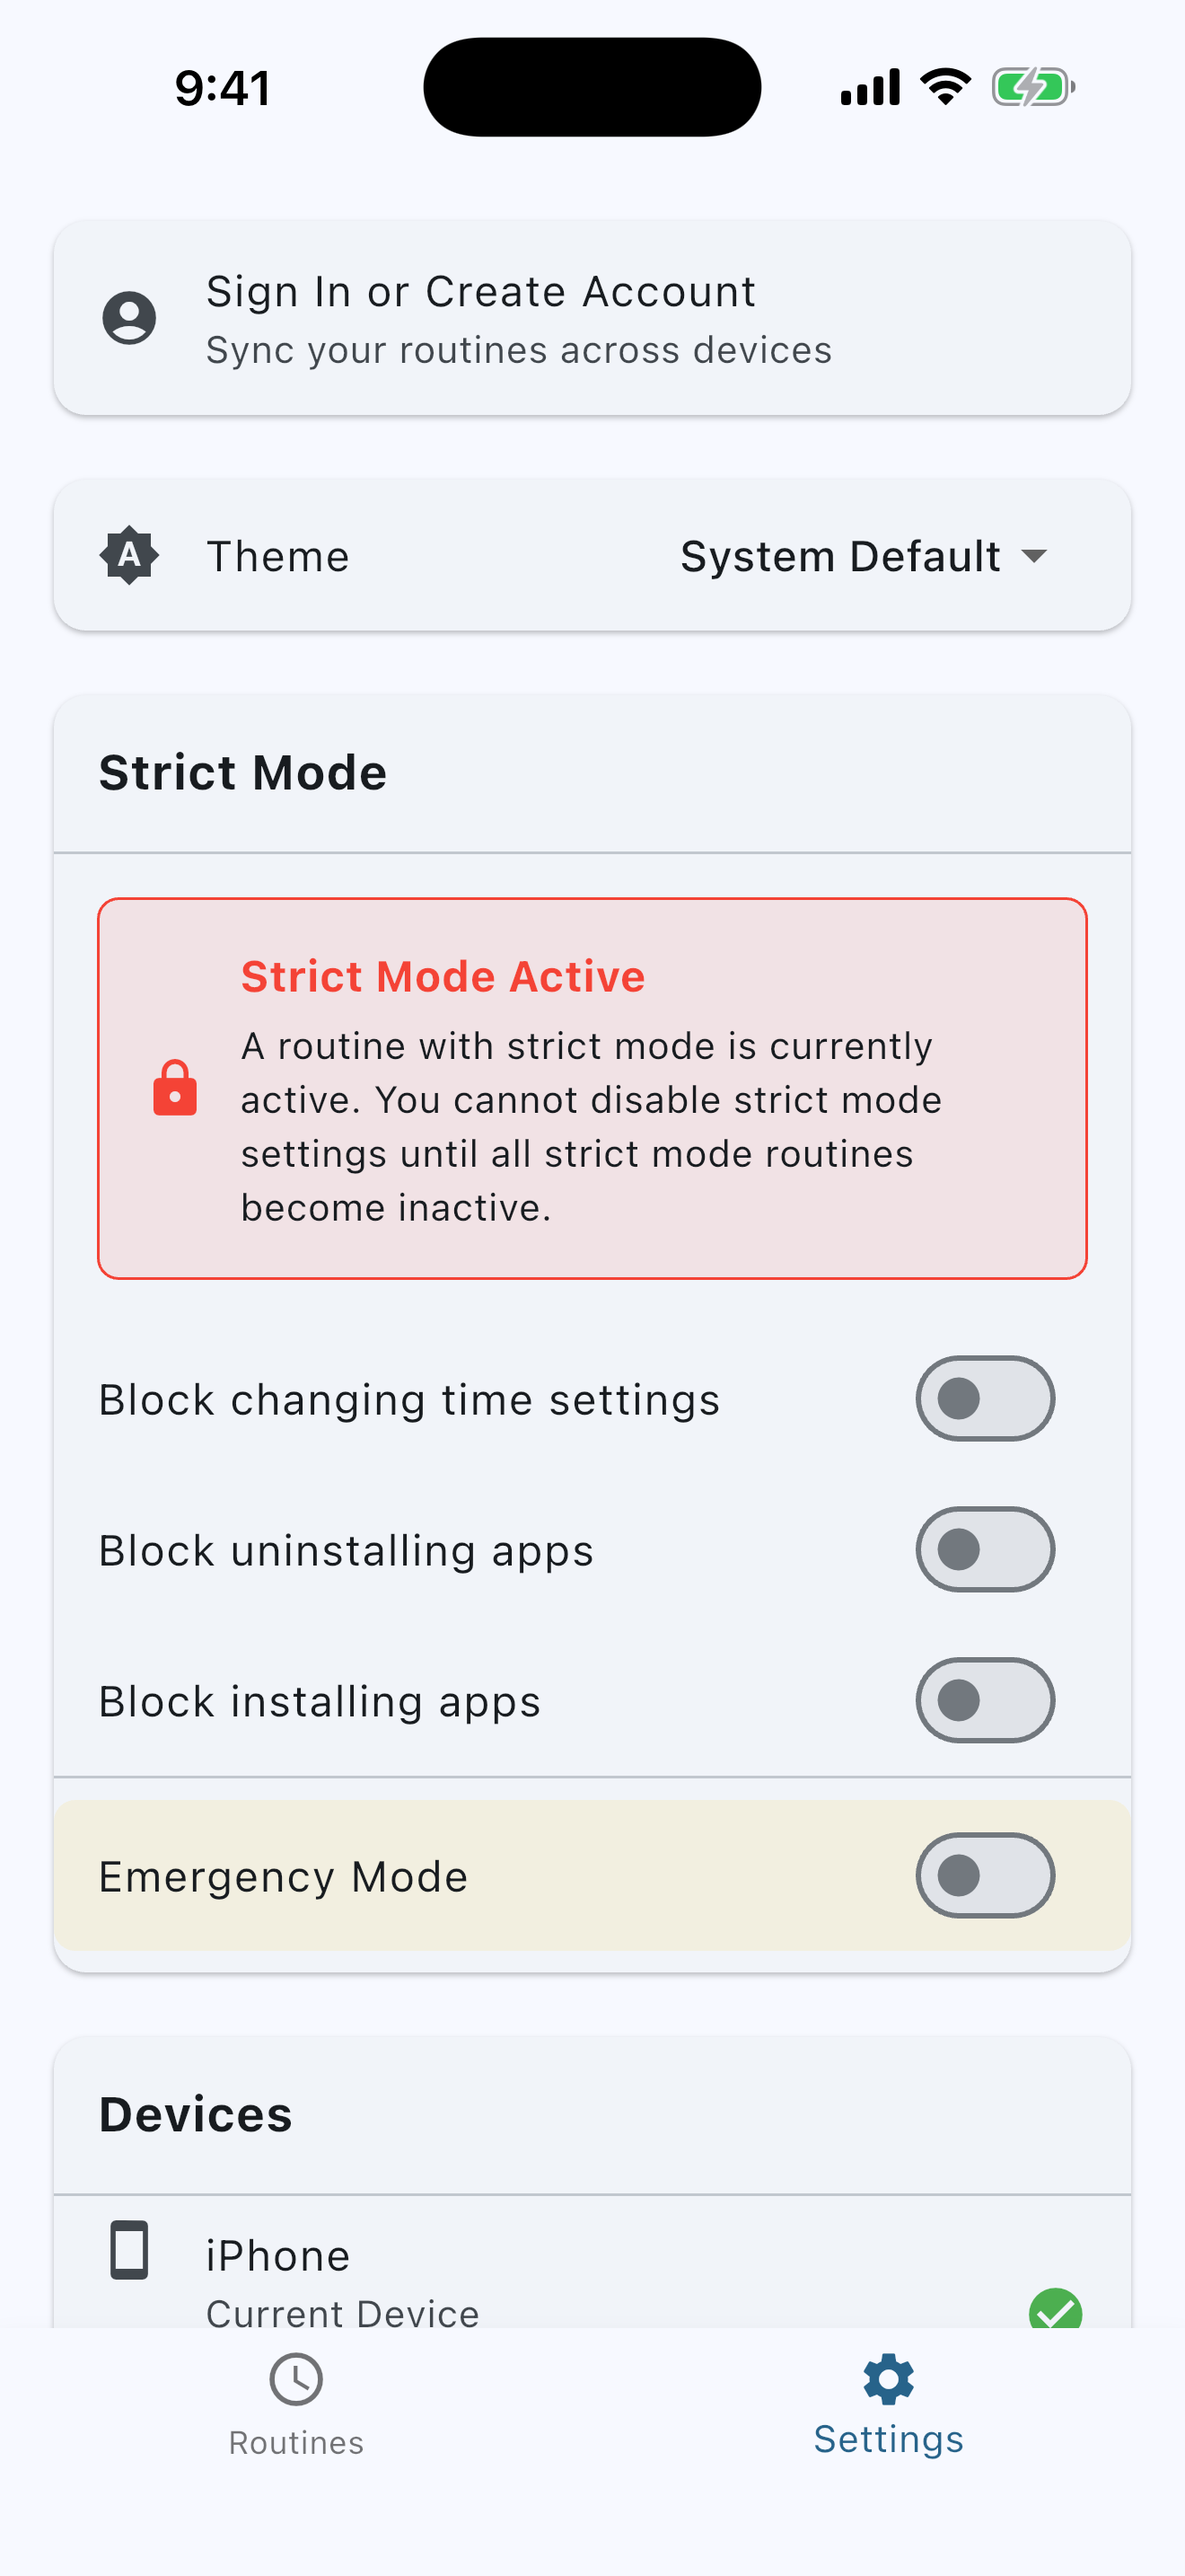
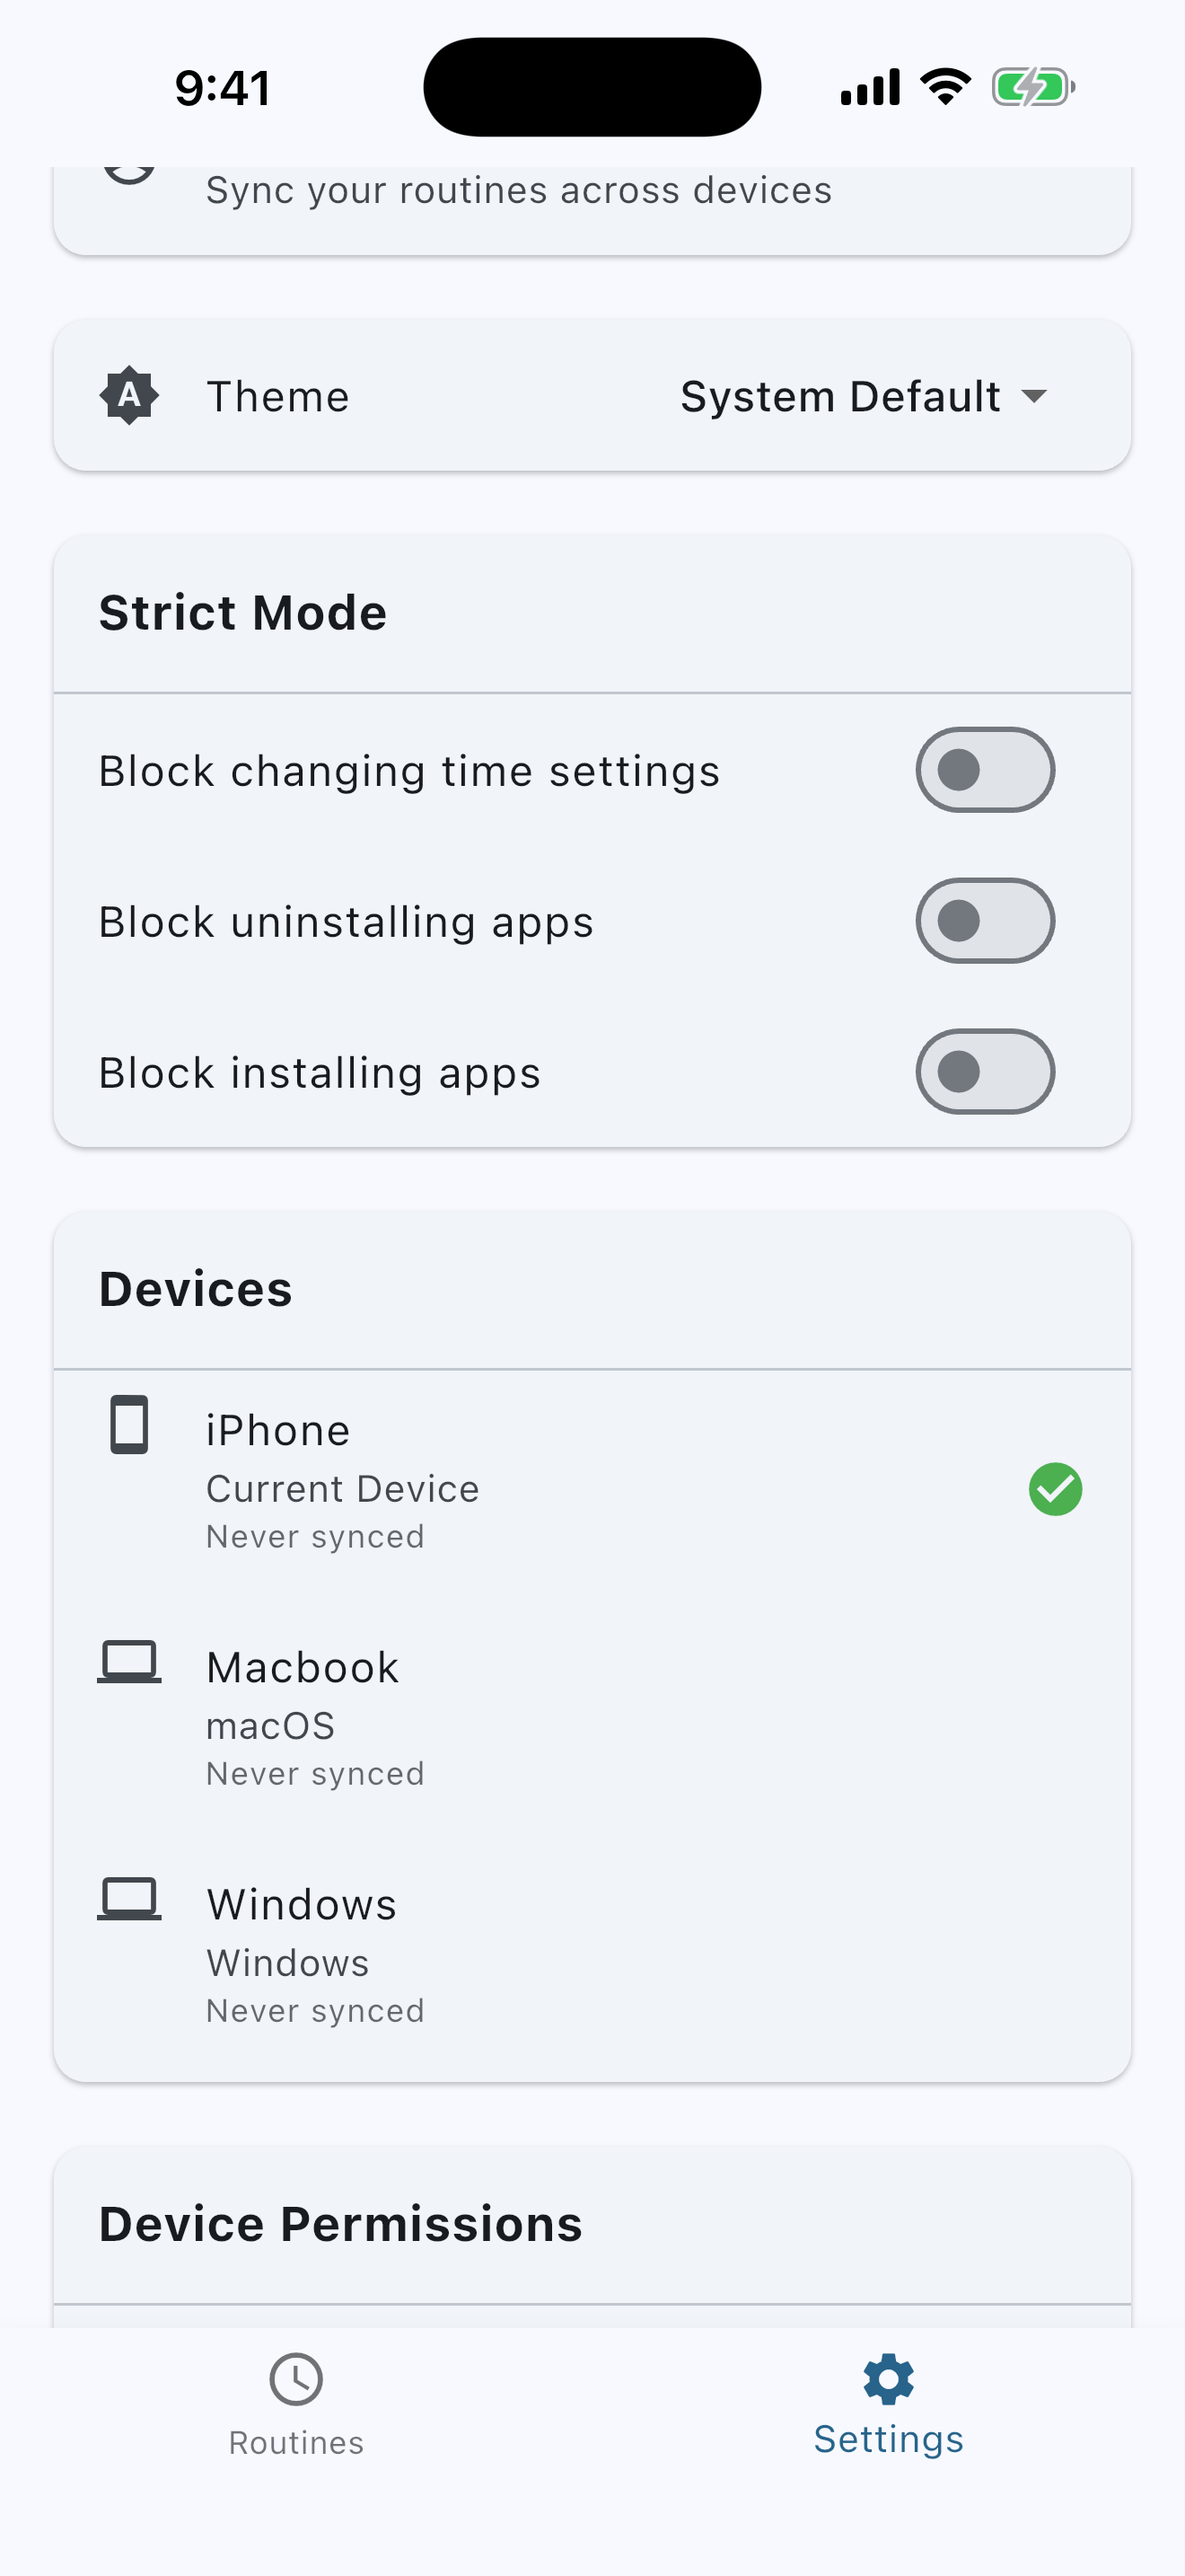
replace ios settings

diff --git a/supabase/functions/invite/index.ts b/supabase/functions/invite/index.ts
@@ -16,6 +16,29 @@ interface RegisterRequest {
 
 type RequestBody = VerifyRequest | RegisterRequest
 
+// listUsers() is paginated (50 per page by default), so a single call silently
+// stops finding matches once there are more users than fit on one page.
+async function userExistsByEmail(
+  // deno-lint-ignore no-explicit-any
+  supabase: any,
+  email: string,
+): Promise<boolean> {
+  const target = email.toLowerCase()
+  const perPage = 1000
+
+  for (let page = 1; ; page++) {
+    const { data, error } = await supabase.auth.admin.listUsers({ page, perPage })
+    if (error) throw error
+
+    const users = data?.users ?? []
+    if (users.some((user: { email?: string }) => user.email?.toLowerCase() === target)) {
+      return true
+    }
+    // A short page means we've reached the end of the list.
+    if (users.length < perPage) return false
+  }
+}
+
 Deno.serve(async (req) => {
   try {
     if (req.method !== 'POST') {
@@ -40,40 +63,43 @@ Deno.serve(async (req) => {
         return new Response('Missing token', { status: 400 })
       }
 
+      let payload: Record<string, unknown>
       try {
-        const { payload } = await jwtVerify(body.token, secret)
-        
-        // Check if an account already exists for this email
-        const supabaseUrl = Deno.env.get('SUPABASE_URL')!
-        const supabaseServiceKey = Deno.env.get('SUPABASE_SERVICE_ROLE_KEY')!
-        
-        const supabase = createClient(supabaseUrl, supabaseServiceKey, {
-          auth: {
-            autoRefreshToken: false,
-            persistSession: false
-          }
-        })
-
-        // Check if user already exists by listing all users and filtering by email
-        const { data: users } = await supabase.auth.admin.listUsers()
-        const userExists = users.users.some(user => user.email === payload.email)
-
-        if (userExists) {
-          return new Response(JSON.stringify({ 
-            error: 'ACCOUNT_EXISTS',
-            message: 'An account with this email already exists' 
-          }), {
-            status: 409,
-            headers: { 'Content-Type': 'application/json' }
-          })
-        }
-
-        return new Response(JSON.stringify(payload), {
-          headers: { 'Content-Type': 'application/json' }
-        })
+        const result = await jwtVerify(body.token, secret)
+        payload = result.payload
       } catch (_error) {
         return new Response('Invalid token', { status: 401 })
       }
+
+      const invitedEmail = typeof payload.email === 'string' ? payload.email : ''
+      if (!invitedEmail) {
+        return new Response('Invalid token payload', { status: 401 })
+      }
+
+      const supabaseUrl = Deno.env.get('SUPABASE_URL')!
+      const supabaseServiceKey = Deno.env.get('SUPABASE_SERVICE_ROLE_KEY')!
+
+      const supabase = createClient(supabaseUrl, supabaseServiceKey, {
+        auth: {
+          autoRefreshToken: false,
+          persistSession: false
+        }
+      })
+
+      // Check if an account already exists for the email in the token
+      if (await userExistsByEmail(supabase, invitedEmail)) {
+        return new Response(JSON.stringify({
+          error: 'ACCOUNT_EXISTS',
+          message: 'An account with this email already exists'
+        }), {
+          status: 409,
+          headers: { 'Content-Type': 'application/json' }
+        })
+      }
+
+      return new Response(JSON.stringify(payload), {
+        headers: { 'Content-Type': 'application/json' }
+      })
     }
 
     if (body.type === 'register') {
@@ -116,9 +142,20 @@ Deno.serve(async (req) => {
         })
       }
 
-      return new Response(JSON.stringify({ 
+      // Best effort: the account exists either way, so a ledger failure must not
+      // fail the registration the user just completed.
+      const { error: ledgerError } = await supabase
+        .from('invites')
+        .update({ accepted_at: new Date().toISOString() })
+        .eq('email', body.email)
+
+      if (ledgerError) {
+        console.error('Failed to mark invite accepted:', ledgerError.message)
+      }
+
+      return new Response(JSON.stringify({
         user: data.user,
-        message: 'User registered successfully' 
+        message: 'User registered successfully'
       }), {
         headers: { 'Content-Type': 'application/json' }
       })
